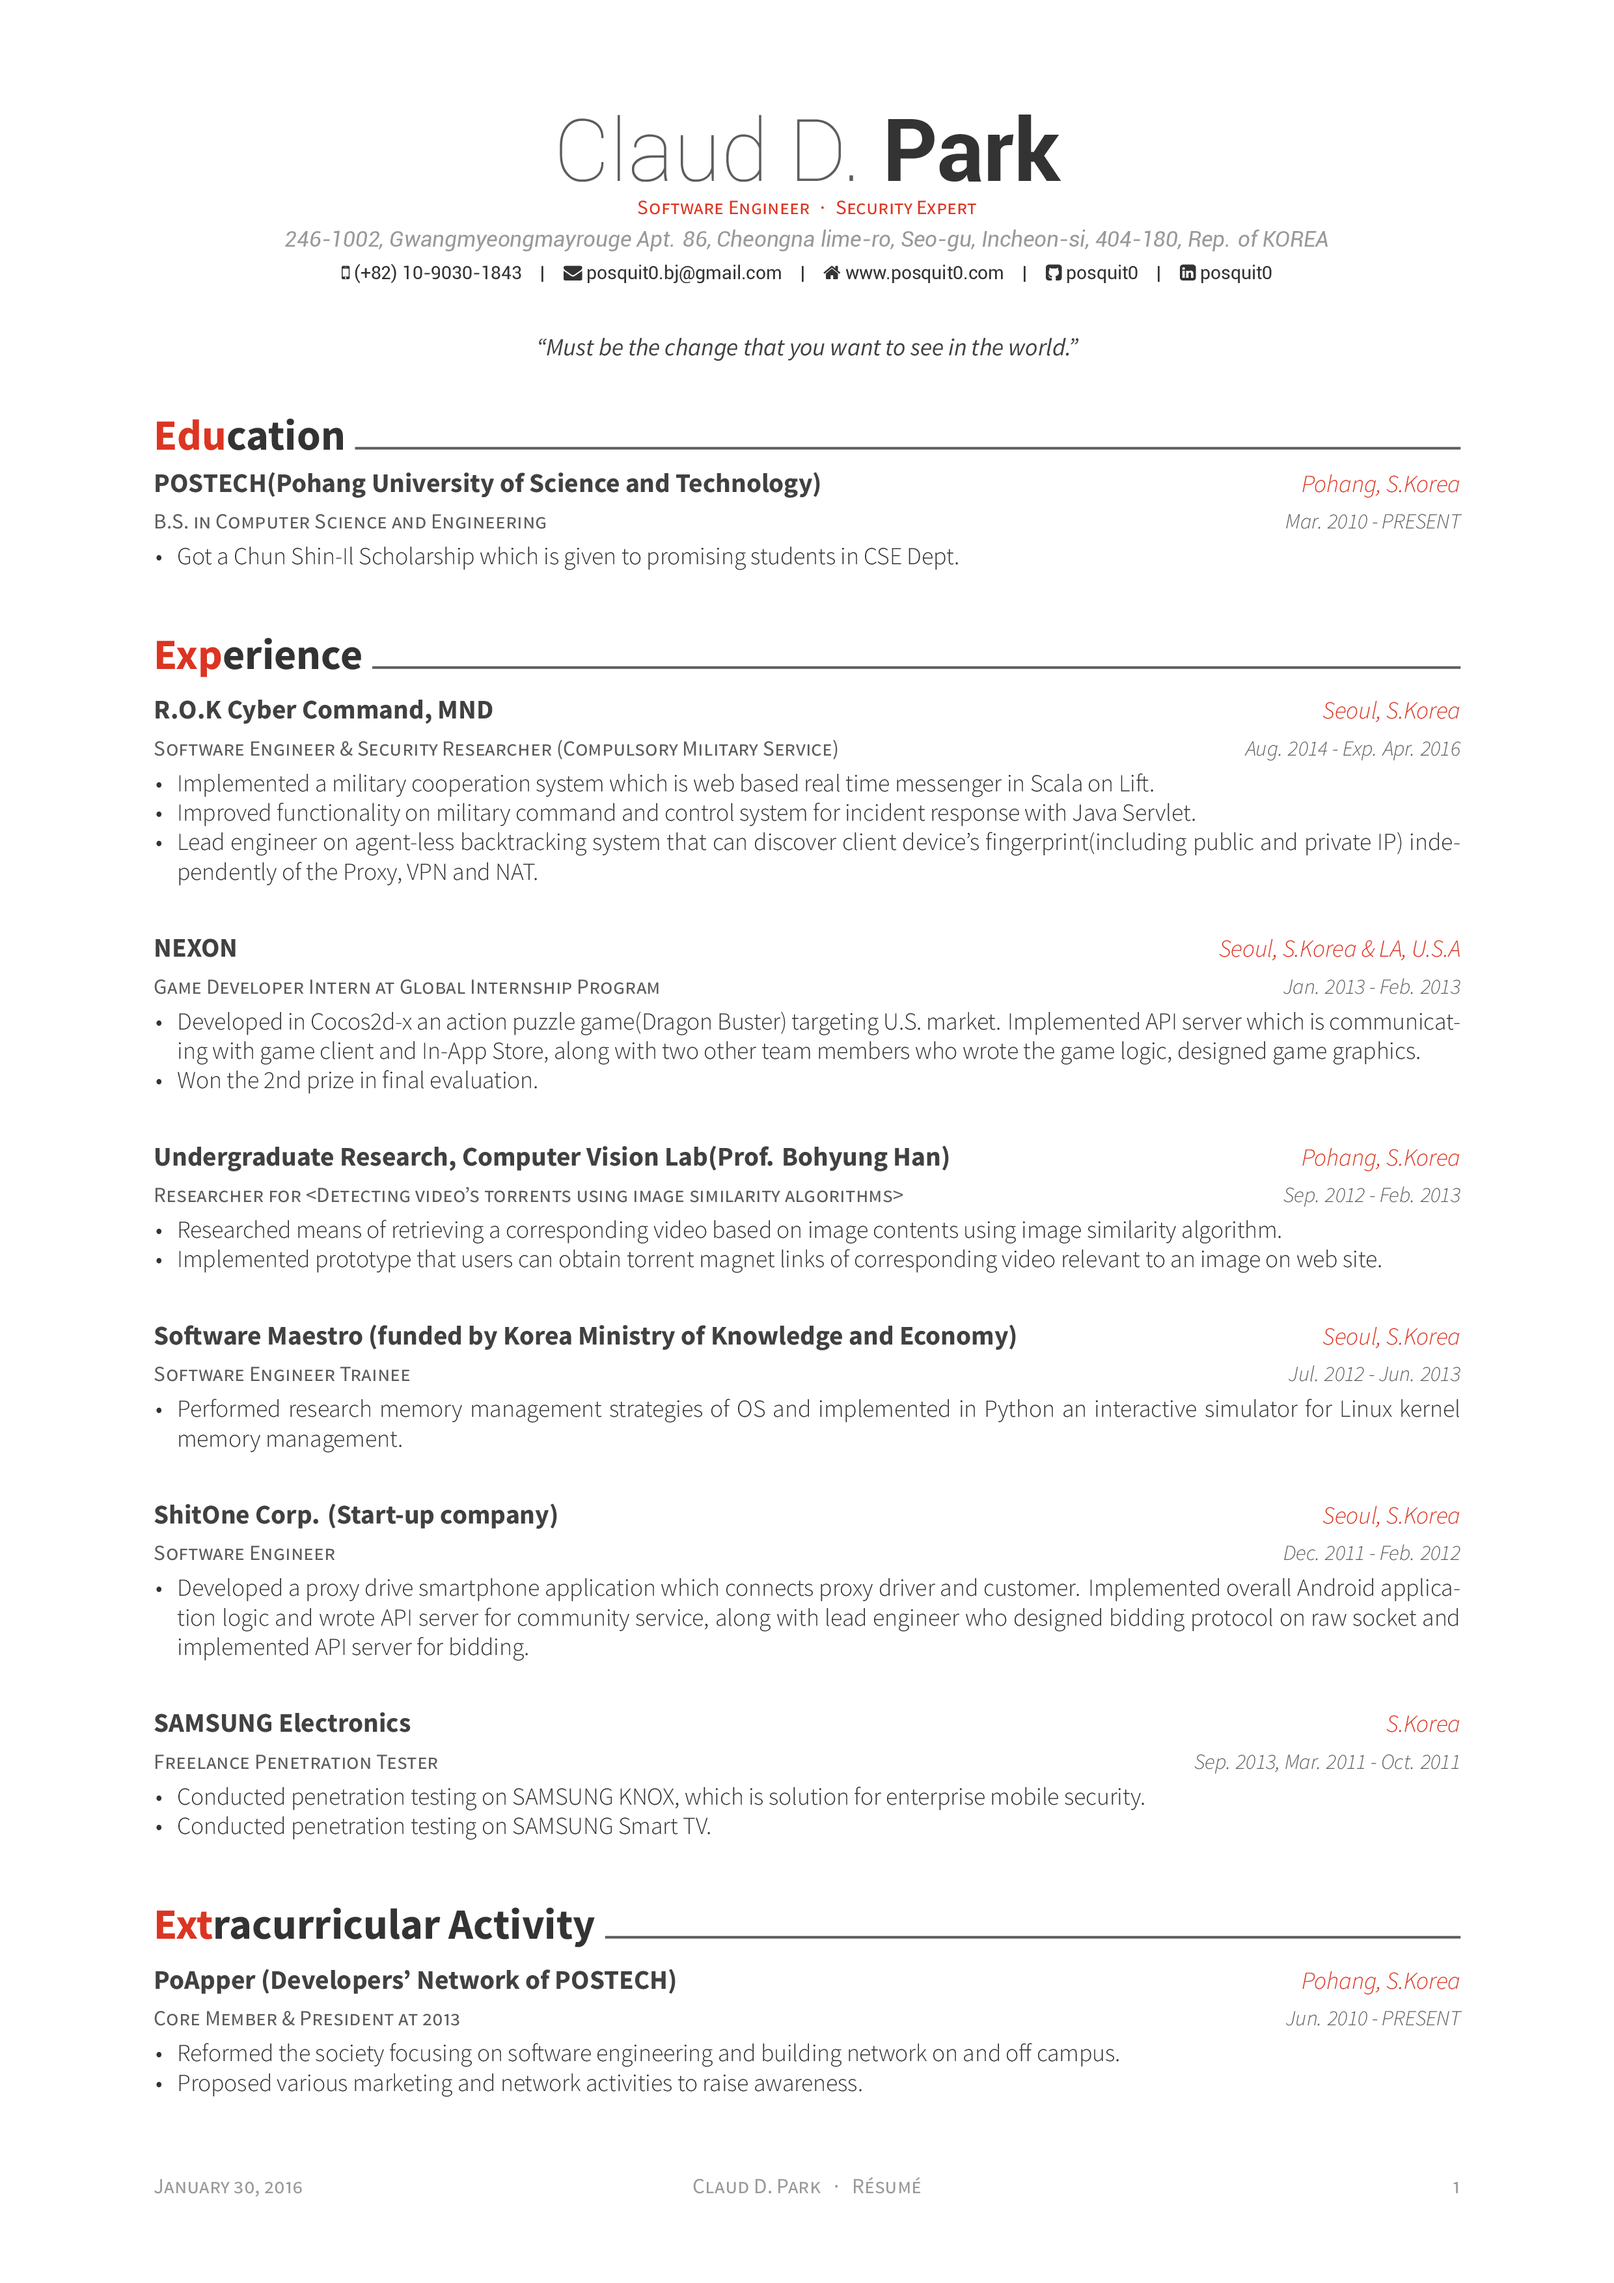
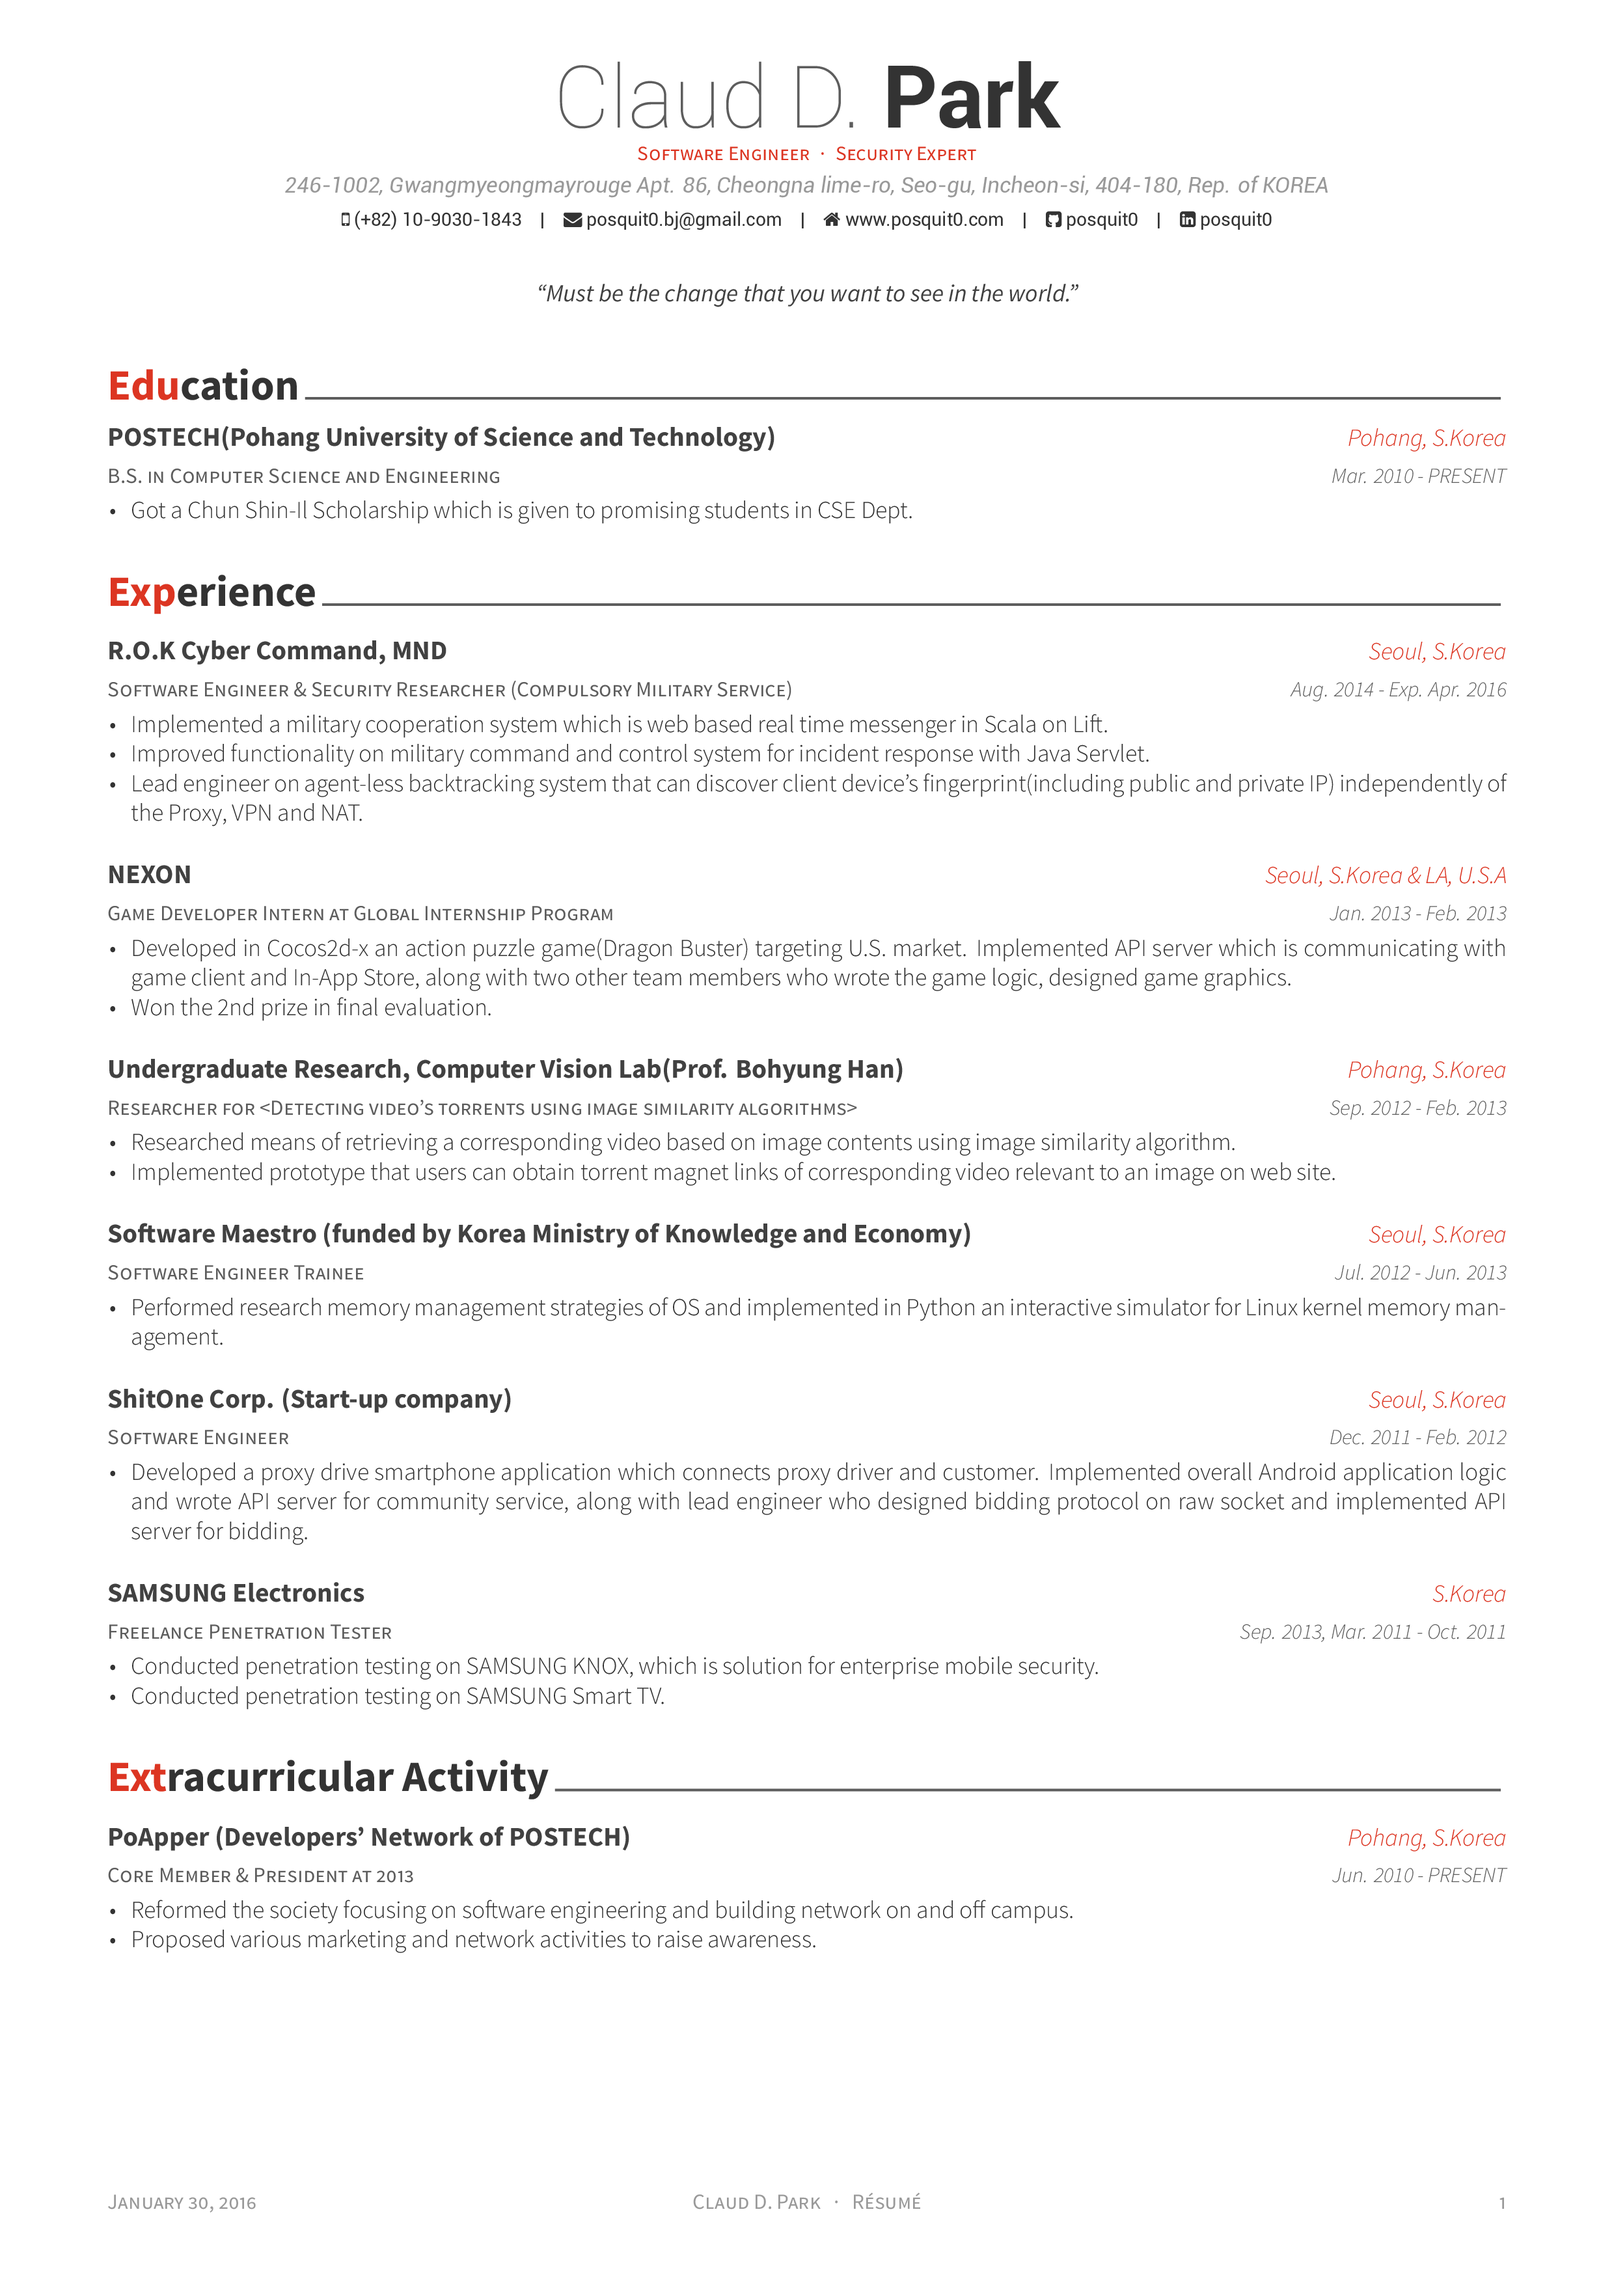
modify geometry option for cv/resume

diff --git a/examples/cv.tex b/examples/cv.tex
@@ -21,7 +21,7 @@
 \documentclass[11pt, a4paper]{awesome-cv}
 
 % Configure page margins with geometry
-% \geometry{left=1.4cm, top=.8cm, right=1.4cm, bottom=1.8cm, footskip=.5cm}
+\geometry{left=1.4cm, top=.8cm, right=1.4cm, bottom=1.8cm, footskip=.5cm}
 
 % Specify the location of the included fonts
 \fontdir[fonts/]

diff --git a/examples/resume.tex b/examples/resume.tex
@@ -21,7 +21,7 @@
 \documentclass[11pt, a4paper]{awesome-cv}
 
 % Configure page margins with geometry
-% \geometry{left=1.4cm, top=.8cm, right=1.4cm, bottom=1.8cm, footskip=.5cm}
+\geometry{left=1.4cm, top=.8cm, right=1.4cm, bottom=1.8cm, footskip=.5cm}
 
 % Specify the location of the included fonts
 \fontdir[fonts/]
